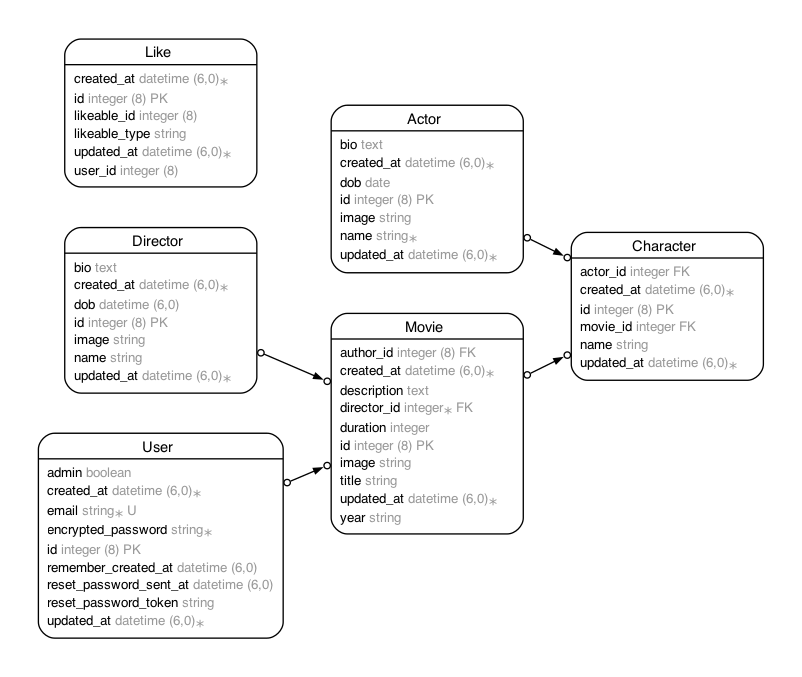
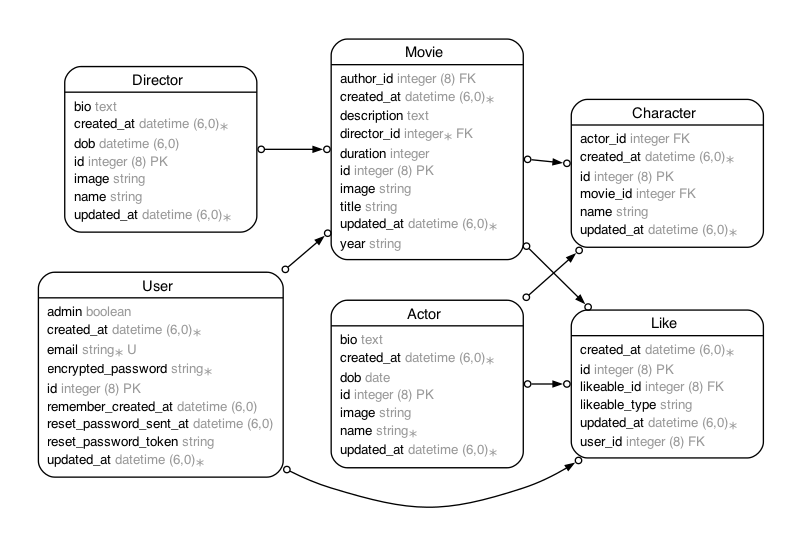
Add multiseach mvp for actors, directors, movies, and characters

diff --git a/db/schema.rb b/db/schema.rb
@@ -10,7 +10,7 @@
 #
 # It's strongly recommended that you check this file into your version control system.
 
-ActiveRecord::Schema[7.1].define(version: 2025_07_03_161807) do
+ActiveRecord::Schema[7.1].define(version: 2025_07_15_161606) do
   # These are extensions that must be enabled in order to support this database
   enable_extension "plpgsql"
 
@@ -61,6 +61,15 @@ ActiveRecord::Schema[7.1].define(version: 2025_07_03_161807) do
     t.datetime "updated_at", null: false
     t.bigint "author_id"
     t.index ["author_id"], name: "index_movies_on_author_id"
+  end
+
+  create_table "pg_search_documents", force: :cascade do |t|
+    t.text "content"
+    t.string "searchable_type"
+    t.bigint "searchable_id"
+    t.datetime "created_at", null: false
+    t.datetime "updated_at", null: false
+    t.index ["searchable_type", "searchable_id"], name: "index_pg_search_documents_on_searchable"
   end
 
   create_table "users", force: :cascade do |t|

diff --git a/db/migrate/20250715161606_create_pg_search_documents.rb b/db/migrate/20250715161606_create_pg_search_documents.rb
@@ -1,0 +1,17 @@
+class CreatePgSearchDocuments < ActiveRecord::Migration[7.1]
+  def up
+    say_with_time("Creating table for pg_search multisearch") do
+      create_table :pg_search_documents do |t|
+        t.text :content
+        t.belongs_to :searchable, polymorphic: true, index: true
+        t.timestamps null: false
+      end
+    end
+  end
+
+  def down
+    say_with_time("Dropping table for pg_search multisearch") do
+      drop_table :pg_search_documents
+    end
+  end
+end

diff --git a/app/models/movie.rb b/app/models/movie.rb
@@ -28,6 +28,9 @@ class Movie < ApplicationRecord
   belongs_to :director
   validates(:director_id, presence: true, numericality: { greater_than: 0 })
 
+  include PgSearch::Model
+  multisearchable against: [:title, :description, :year]
+
   def to_param
     "#{id}-#{title.parameterize}"
   end

diff --git a/config/routes.rb b/config/routes.rb
@@ -6,6 +6,9 @@ Rails.application.routes.draw do
   # TODO: only need create, destroy
   resources :likes
 
+  get("search", { controller: "search", action: "index" })
+  # resources :search, only: [:index]
+
   # Routes for the Character resource:
 
   # CREATE

diff --git a/app/controllers/search_controller.rb b/app/controllers/search_controller.rb
@@ -1,0 +1,9 @@
+class SearchController < ApplicationController
+
+  def index
+    @query = params[:query]
+    @results = PgSearch.multisearch(@query)
+
+    render "search/index"
+  end
+end

diff --git a/app/models/actor.rb b/app/models/actor.rb
@@ -20,4 +20,7 @@ class Actor < ApplicationRecord
   has_many :characters
 
   validates :name, presence: true
+
+  include PgSearch::Model
+  multisearchable against: [:bio, :name]
 end

diff --git a/app/models/character.rb b/app/models/character.rb
@@ -16,4 +16,8 @@ class Character < ApplicationRecord
   # end
 
   belongs_to :movie
+  belongs_to :actor
+
+  include PgSearch::Model
+  multisearchable against: [:name]
 end

diff --git a/app/models/director.rb b/app/models/director.rb
@@ -26,4 +26,7 @@ class Director < ApplicationRecord
   end
 
   has_many :movies
+
+  include PgSearch::Model
+  multisearchable against: [:bio, :name]
 end
